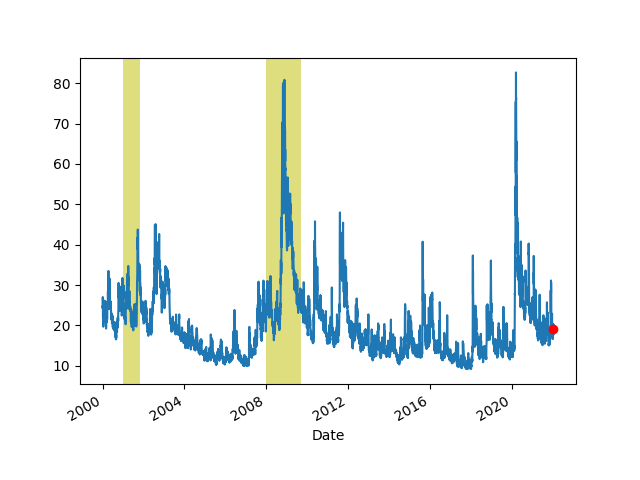
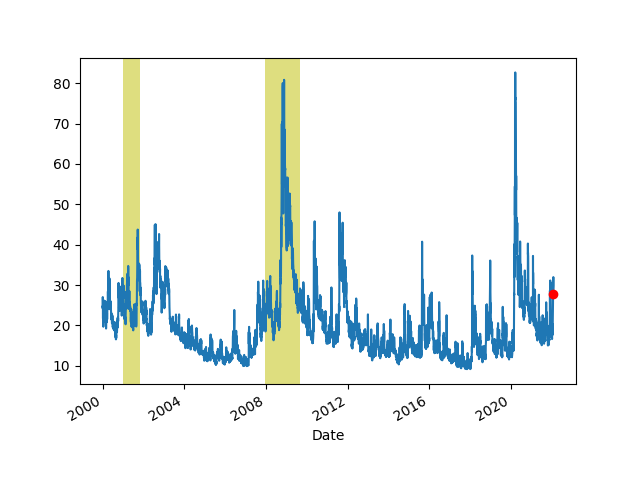
-

diff --git a/en/2019/05/stats.md b/en/2019/05/stats.md
@@ -652,13 +652,13 @@ plt.savefig('vix.png')
 
 ```text
 Date
-2022-01-06    19.610001
-2022-01-07    18.760000
-2022-01-10    19.400000
-2022-01-11    18.410000
-2022-01-12    17.620001
-2022-01-13    20.309999
-2022-01-14    19.190001
+2022-01-20    25.590000
+2022-01-21    28.850000
+2022-01-24    29.900000
+2022-01-25    31.160000
+2022-01-26    31.959999
+2022-01-27    30.490000
+2022-01-28    27.660000
 Name: Adj Close, dtype: float64
 ```
 
@@ -928,10 +928,10 @@ print (df['Credit to GDP'].tail(4))
 
 ```text
 DATE
-2020-10-01    183.416764
 2021-01-01    182.993106
 2021-04-01    181.919434
 2021-07-01    180.886665
+2021-10-01    177.899564
 Freq: QS-OCT, Name: Credit to GDP, dtype: float64
 ```
 
